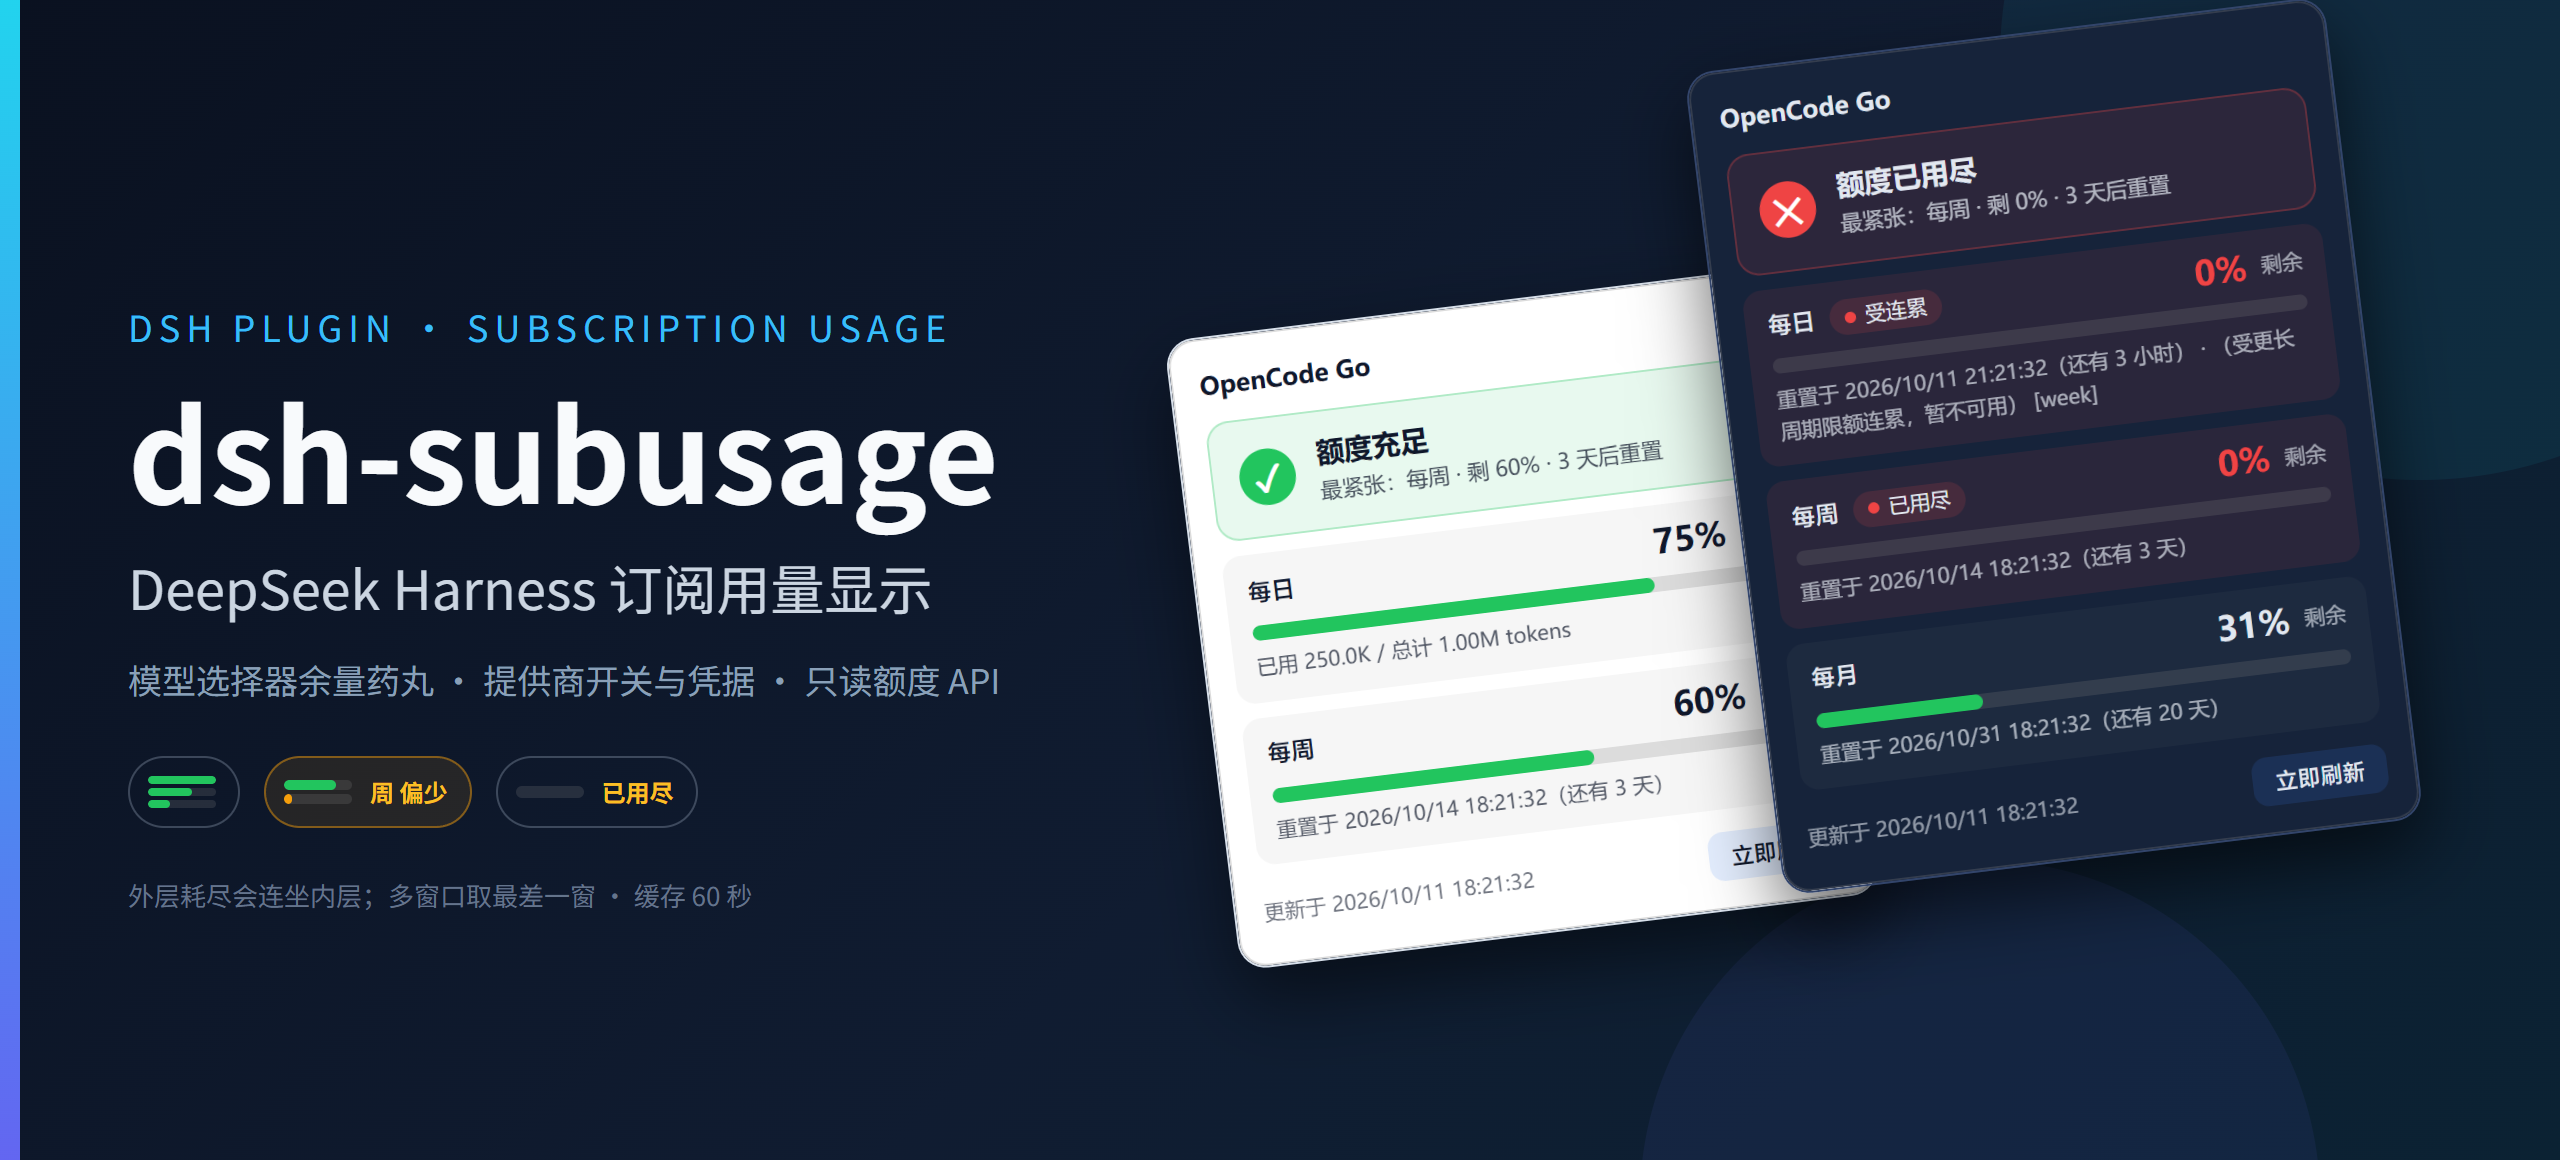
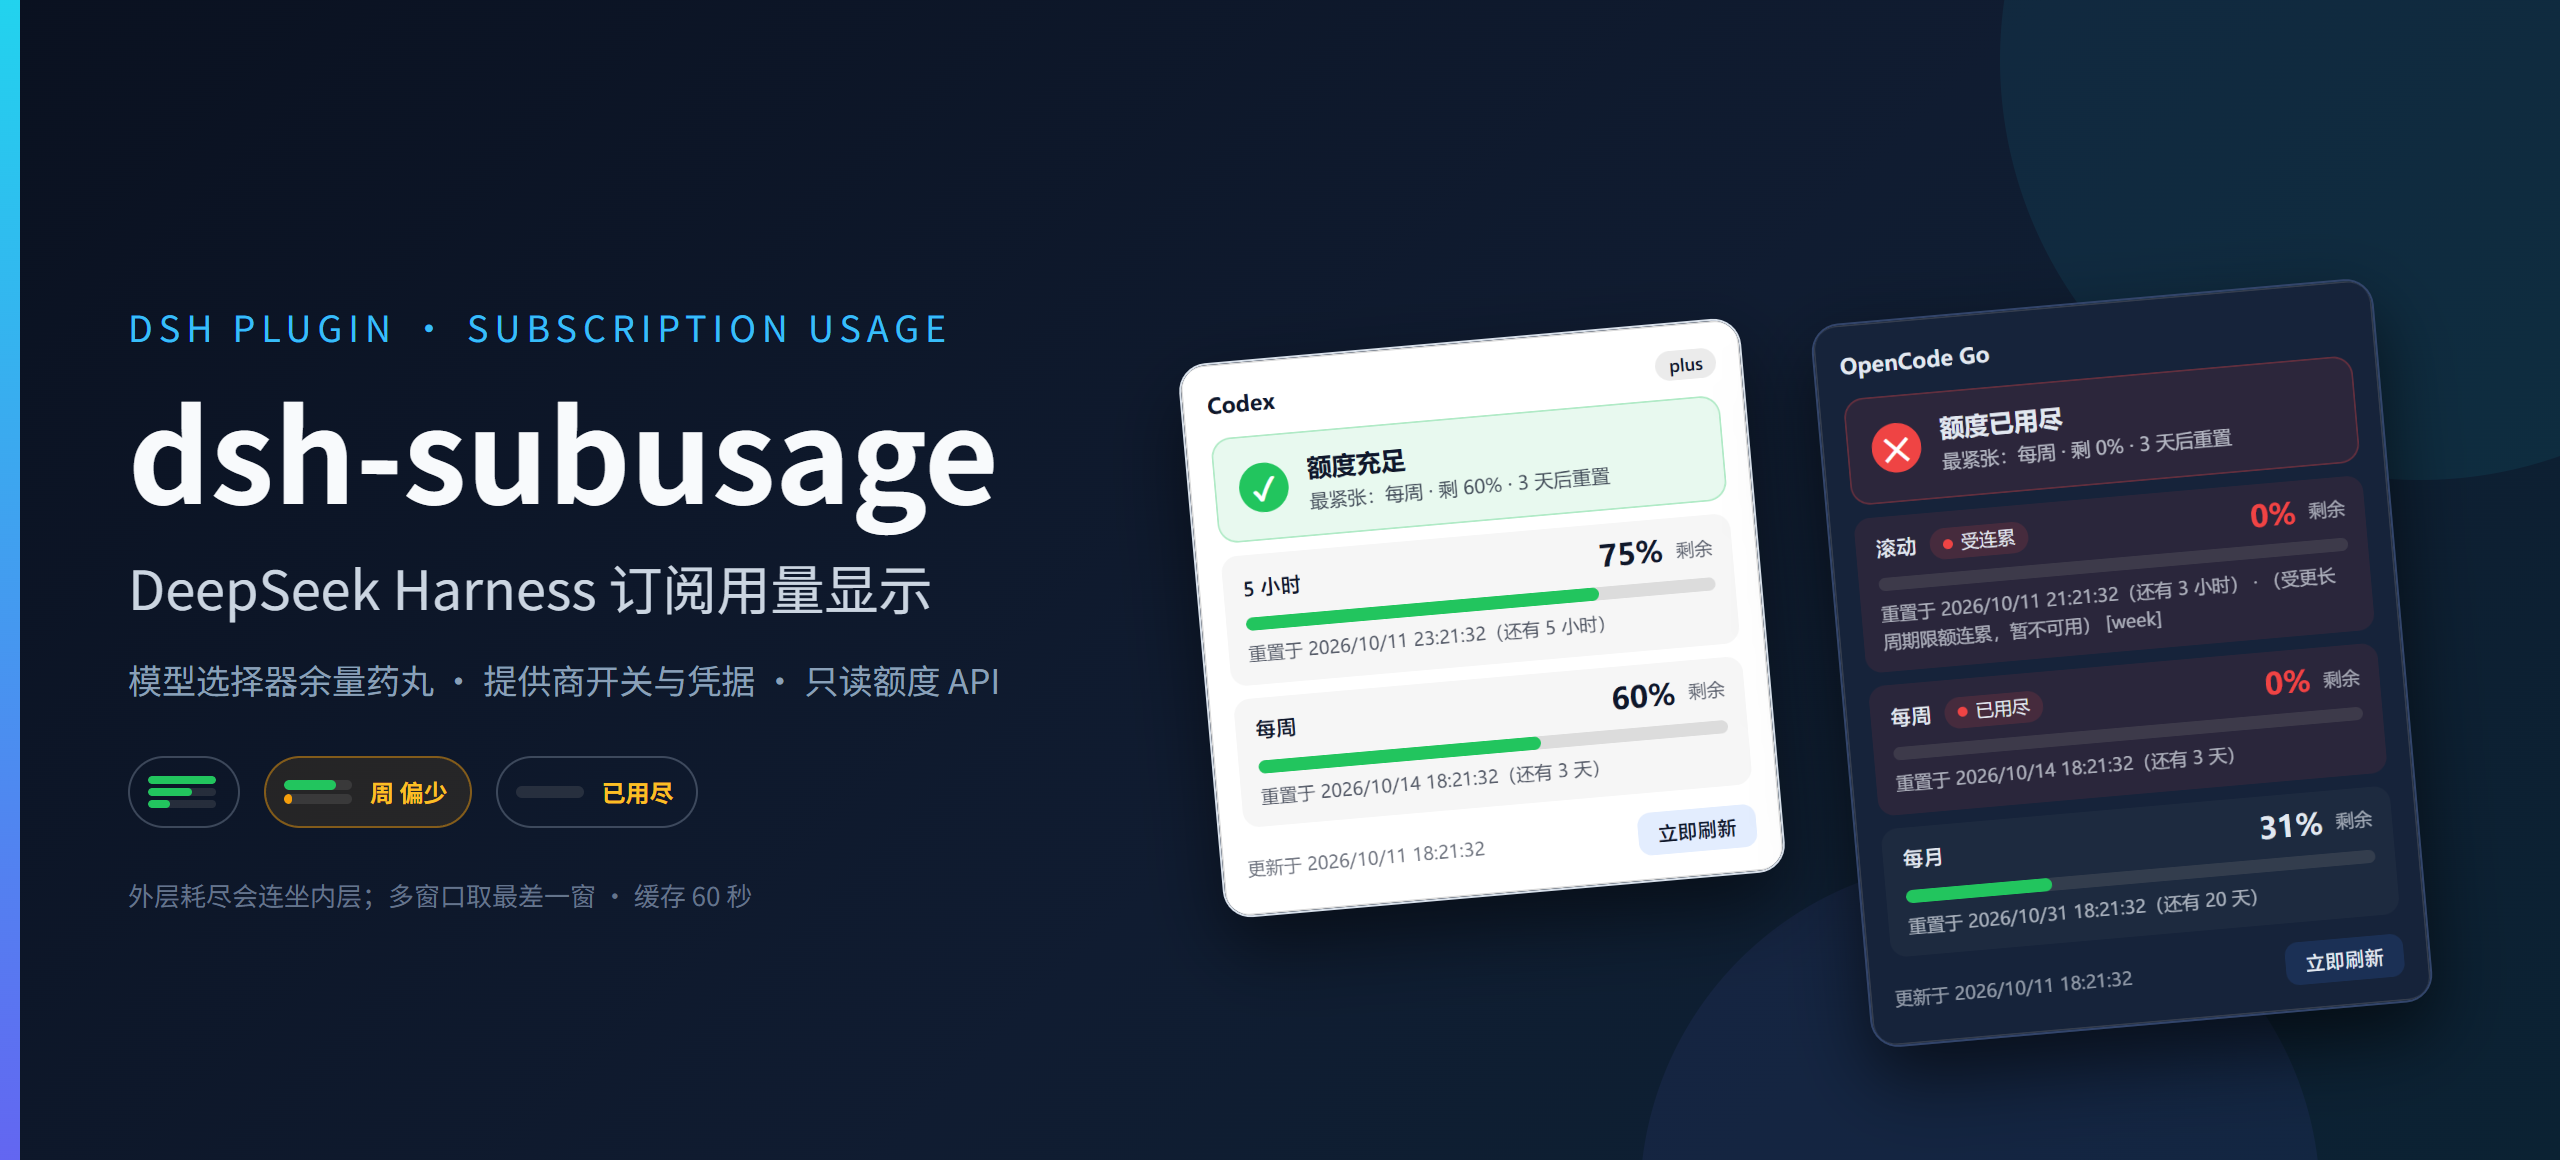
docs: use the real OpenCode Go windows in the title image
The dark popover now renders rolling (cascade-blocked, 受连累) / weekly (已用尽) / monthly (31% left) - verified against normalizeOpencodeGo with the real response shape and the zh window labels (滚动/每周/每月), matching tests/test-opencode.mjs. The light card stays on Codex (5 小时 / 每周, plus plan).

Changed region(s): [[0.4375, 0.031, 0.9375, 0.8379], [0.7188, 0.8069, 0.9375, 0.931]]

diff --git a/docs/changelog.md b/docs/changelog.md
@@ -13,7 +13,7 @@
 - **对外额度视图不泄露凭据引用名**：额外账户没配凭据时，`provider()` 的 no-key 文案里嵌着它的 `apiKeyEnv` 引用名（如 `COMMANDCODE_ACCOUNT_WORK`），而视图契约承诺不含继承变量名/凭据引用。`quota()` 现在把错误文案里的引用名换成账户标签（`Account 2`）；本机界面那条通道（`read`/`refresh`）仍保留引用名——用户要靠它定位该往哪个 ref 里写凭据。
 - **共用控制器的竞态修掉**：设置页与药丸弹层现在共用同一个账户控制器，两处同时挂载会并发 `load()`。`load()` 现在把同一代的并发请求合并成一次 describe，并让「切换账户（mutate）之后才返回的旧 describe」作废——否则它会把 `activeId` / `revision` 覆盖回切换前的快照，两处界面一起回到旧账户；切换进行中 / 只读 / 未 ready 时账户按钮一并禁用（`switchTo` 本来就会拒绝，可点的按钮只会变成「点了没反应」）。
 - 文案与契约：`commandcodeHelp` 与账户区提示说明「设置页与弹层同一开关」；工具 `description` 交代省略规则与多账户形态，`output.schema` 增加 `account` / `accountActive` / `accountMode` / `omitted`；README 的额度查询 API 一节补上视图新字段与「`quota()` 本身不过滤」的区别。
-- 首页视觉：**标题图换成真实渲染截图拼贴**（`assets/title.png`，由 `debug/build-title.mjs` 生成、不入库）——左侧文字与三个同款药丸（一列迷你横条、满格 = 100% 剩余、档位色、正常态不写字），右侧是**当前实现真实渲染**的两张用量弹层截图（headless Chrome 按 2x 截取）：浅色演示「额度充足」，深色演示「额度已用尽并连坐」（受连累 / 已用尽标签、空槽余量条、每月仍剩 31%），示例取 OpenCode Go 的额度限制；两卡 2D 倾斜、互相重叠并排。字体用本机已装的开源 **Noto Sans SC**（SIL OFL），不使用商业字体。手绘的 `assets/title.svg` 删除；README 首屏去掉弹层大图（只留标题图），标题图整行宽度。
+- 首页视觉：**标题图换成真实渲染截图拼贴**（`assets/title.png`，由 `debug/build-title.mjs` 生成、不入库）——左侧文字与三个同款药丸（一列迷你横条、满格 = 100% 剩余、档位色、正常态不写字），右侧是**当前实现真实渲染**的两张用量弹层并排（-5° 轻倾斜、不重叠）：浅色演示 **Codex**「额度充足」（`5 小时` / `每周` 两条限制 + `plus` 套餐标签），深色演示 **OpenCode Go**「额度已用尽并连坐」（受连累 / 已用尽标签、空槽余量条、每月仍剩 31% 与连坐明细）。字体用本机已装的开源 **Noto Sans SC**（SIL OFL），不使用商业字体。手绘的 `assets/title.svg` 删除；README 首屏去掉弹层大图（只留标题图），标题图整行宽度。
 - 测试：新增 `tests/test-commandcode-multiquota.mjs`（账户清单、按账户展开与排序、按账户分缓存与失效、工具省略与点名、文本层账户后缀）；`tests/test-commandcode-accounts.mjs` 增加设置页账户区与「未注入 cc 时隐藏」两段。`node tests/run-all.mjs`（32 个文件）与 `node scripts/check-manifest.mjs` 全部通过。
 
 ## 0.10.12：首页重设计、审查修复与兼容声明更新
